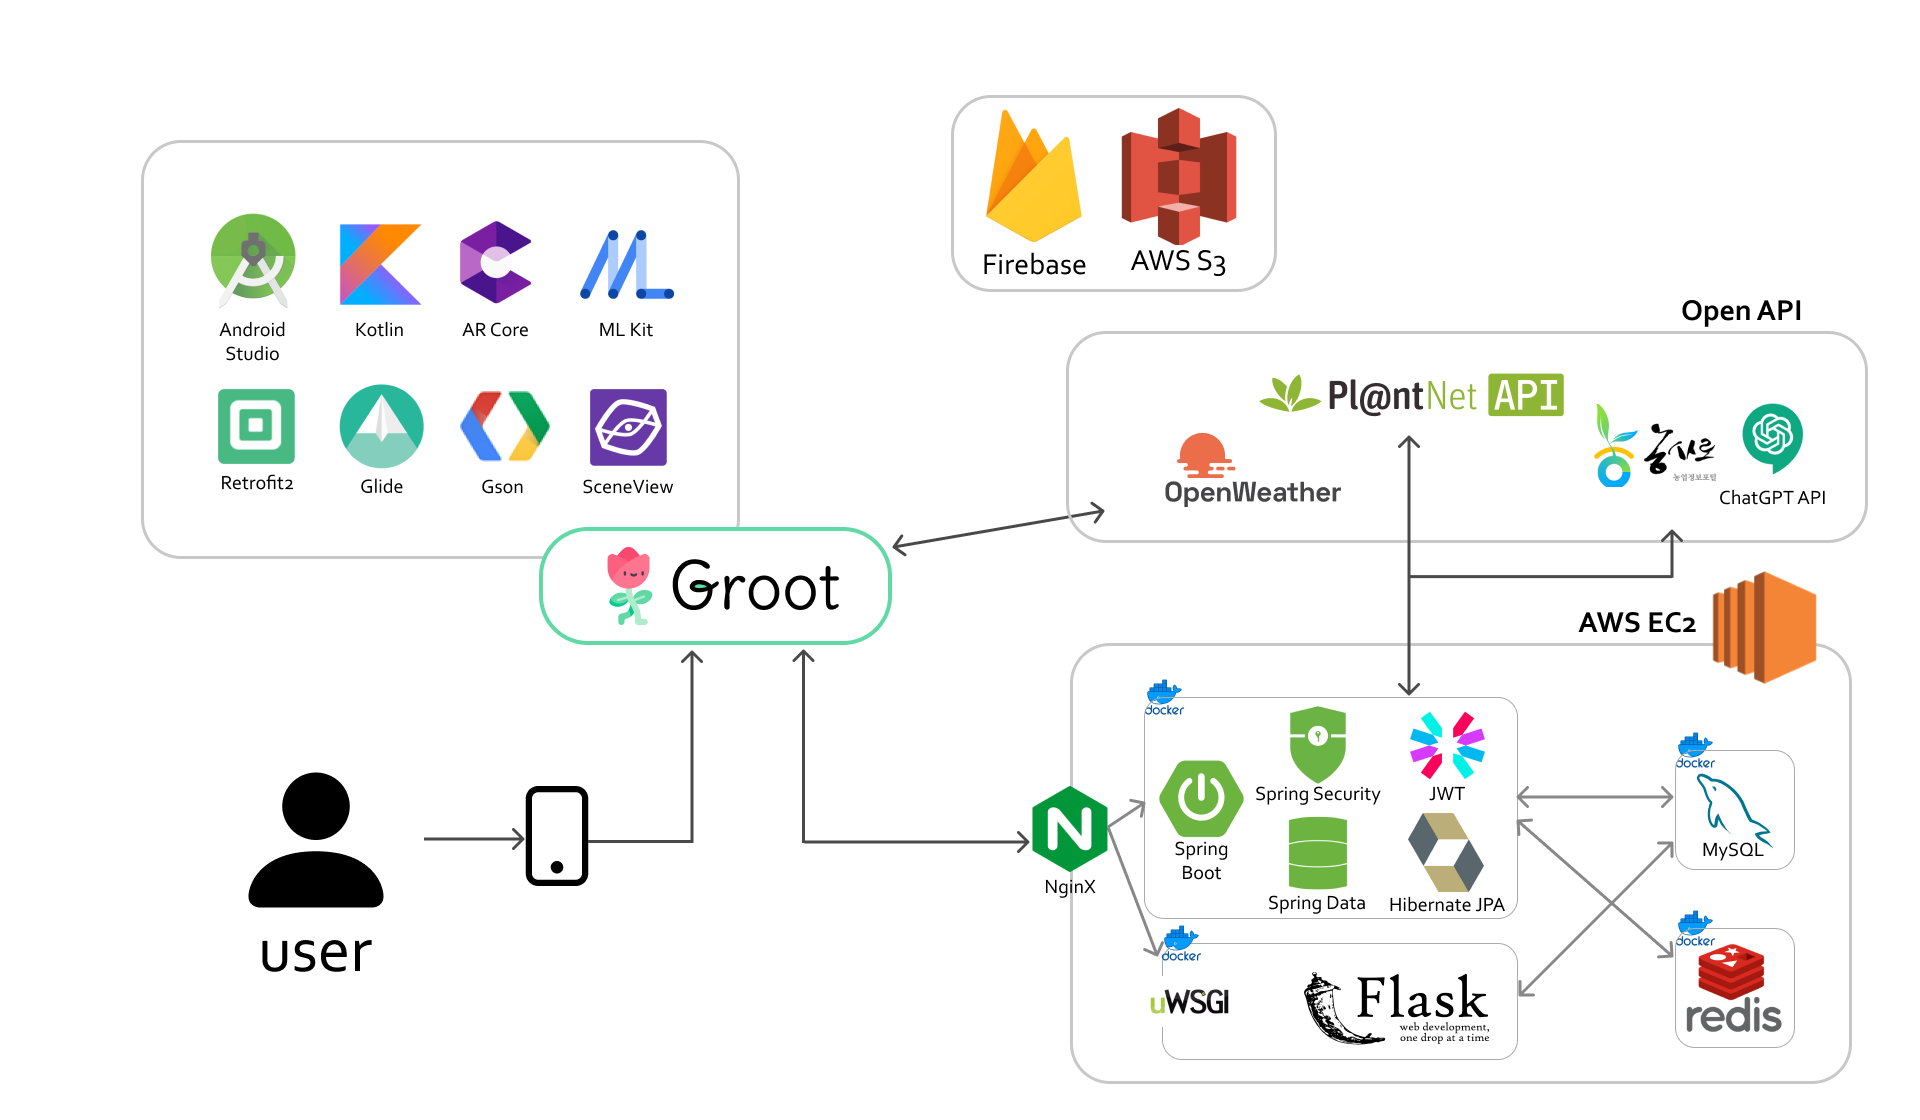
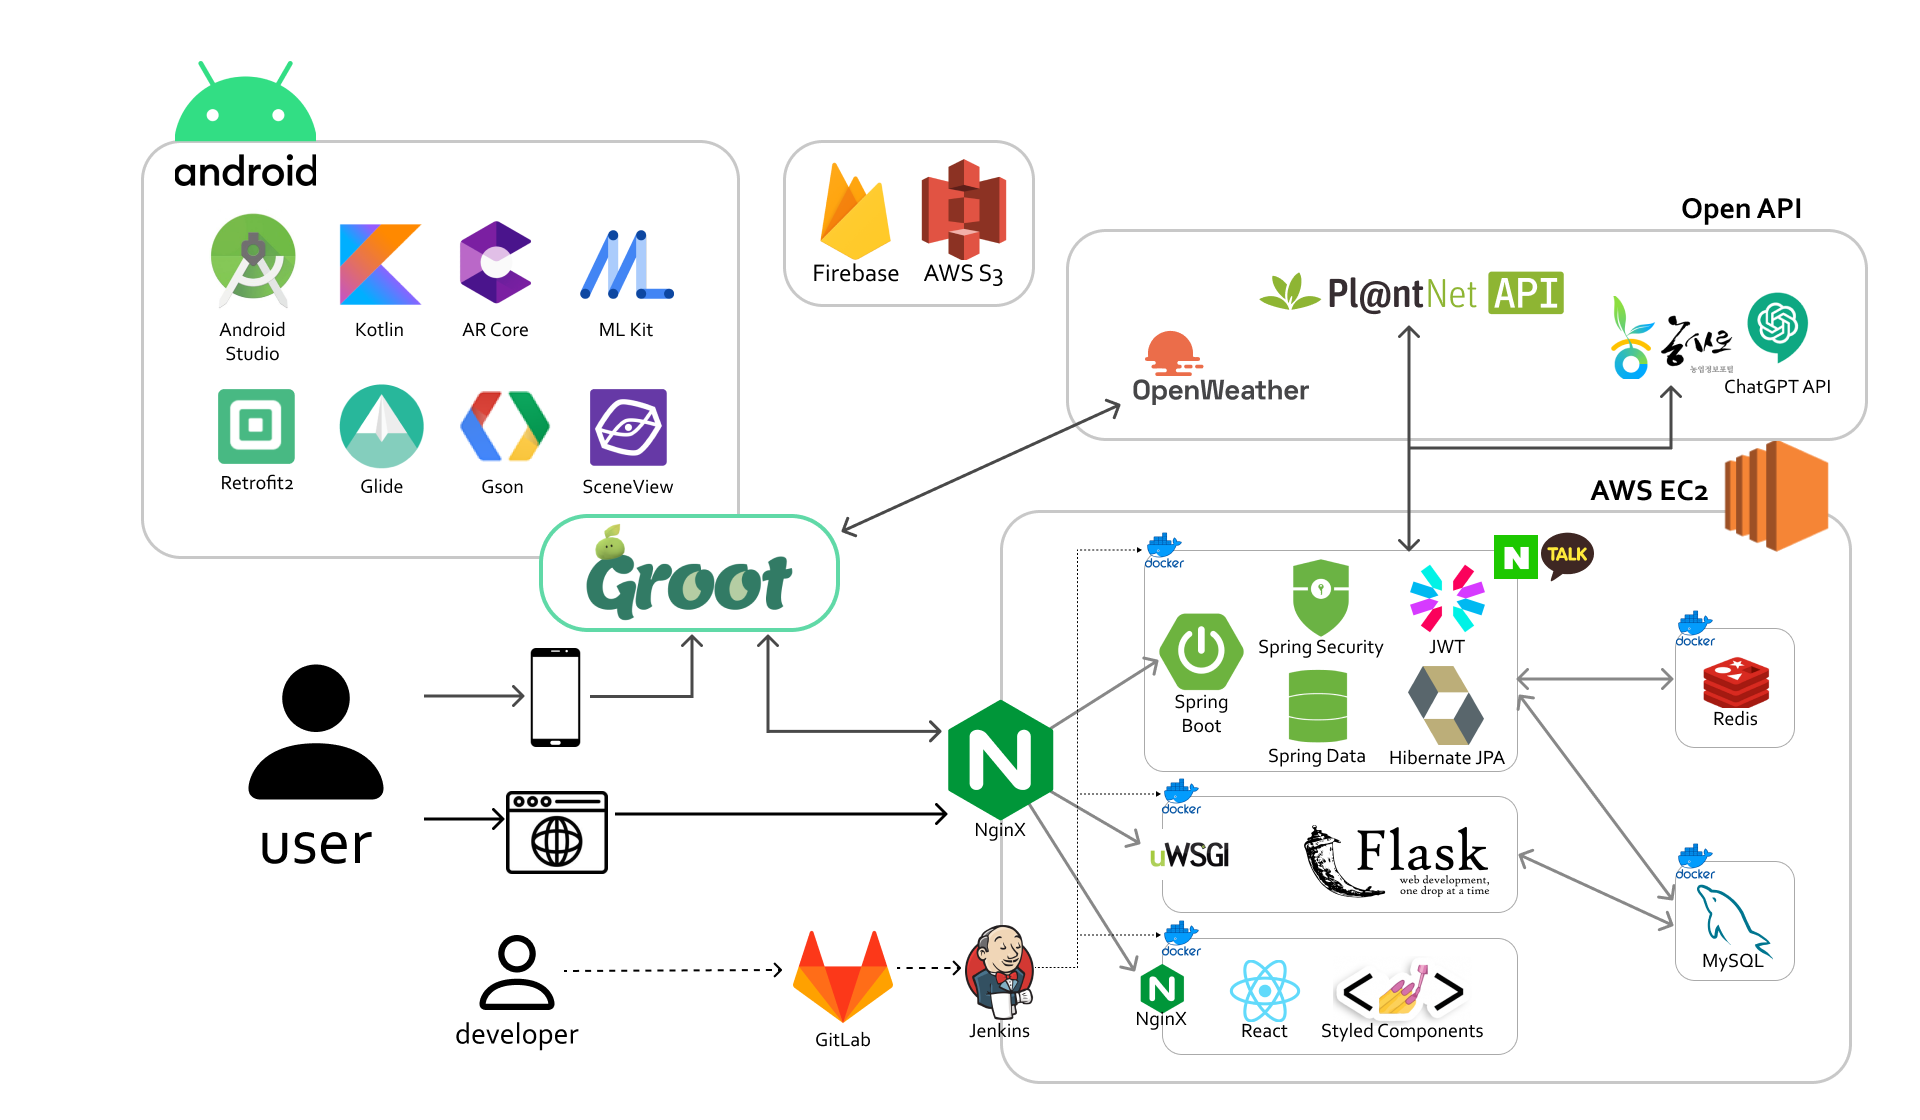
Docs: Readme v2

diff --git a/README.md b/README.md
@@ -12,25 +12,25 @@
 
 ---
 
-**[박세희](https://github.com/)** : `팀장`, `Client`
+**[박세희](https://github.com/)** : `Leader`, `Client` : 커뮤니티, 채팅 구현
 
-**[김민우](https://github.com/bkkmw)** : `BackEnd`
+**[김민우](https://github.com/bkkmw)** : `Infra`, `BackEnd` : CI/CD, 식물 데이터 전처리, 식물/화분 API
 
-**[김정원](https://github.com/)** : `Client`
+**[김정원](https://github.com/)** : `Client` : 식물 정보, Screen View, Social Login
 
-**[서다경](https://github.com/)** : `Client`
+**[서다경](https://github.com/)** : `Client` : 어플리케이션 메인 flow, 다이어리, mlkit-plant recognition
 
-**[윤민주](https://github.com/)** : `BackEnd`
+**[윤민주](https://github.com/)** : `BackEnd` : 식물 추천 기능 구현, 유저/커뮤니티 API, Microsite
 
-**[조승희](https://github.com/)** : `BackEnd`, `UCC`
+**[조승희](https://github.com/)** : `BackEnd`, `UCC` : Push 알림, 다이어리/일정 API, Microsite
 
 <br>
 
-## 프로젝트 개요
+## 📎 프로젝트 개요
 
 ---
 
-### 기획 배경
+### ⭐ 기획 배경
 
 - Home Gardening 관심 확대
   - 아파트 단지 등에서 보이는 보라색 조명의 집, 코로나19 이후 "반려식물"에 대한 관심 증가 등 **'홈 가드닝'** 에 대한 관심이 높아지고 있습니다.
@@ -48,34 +48,37 @@
 
 <br>
 
-## 주요 기능
+## 📎 주요 기능
 
 ---
 
-### 화분 등록
+### 🌱 화분 등록
 
 - 식물 식별 : 사용자가 등록하고자 하는 화분의 사진을 촬영하면 식물의 종을 식별하여 사용자의 화분으로 등록할 수 있도록 합니다.
 - 조도 분석 : 화분을 위치하고자 하는 곳의 조도를 Android 센서를 통해 분석하여 해당 식물에게 적합한 위치인지 여부 판단하여, 사용자에게 해당 화분을 놓을 적합한 위치를 찾을 수 있도록 도와줍니다.
 - 화분 등록 : 사진을 통한 식물 식별이나, 직접 검색을 통해 화분을 등록할 수 있도록 합니다.
 - 육성 가이드 : 물주기, 영양제, 햇빛, 분갈이, 해충 등 개별 식물 별 일정 및 가이드를 제공합니다. 물주기와 같은 잊어버리기 쉬운 일정은 푸쉬 알림을 통한 식물별 리마인더 및 캘린더를 통한 일정을 사용자에게 제공하며, 수행한 일정에 대한 기록을 남길 수 있습니다.
 
-### 캐릭터 육성
+### 🥚 캐릭터 육성
 
 - AR : AR 기술을 활용하여 식물과 함께 3D 캐릭터 모델을 활용한 생동감 있는 식물 캐릭터를 만날 수 있습니다.
 - 캐릭터 육성 : 물주기 등의 활동을 통해 경험치를 얻어 캐릭터를 육성하여 총 3단계로 변화하는 캐릭터를 만날 수 있습니다.
 - 33개의 캐릭터 : 생육 형태에 따라 11 종의 캐릭터로 분류되며, 성장에 따라 변화하는 총 33개의 캐릭터를 AR 기술을 통해 식물과 함께 만날 수 있습니다.
 
-### 다이어리
+  ![characters](/images/docs/characters.png)
+
+### 📝 다이어리
 
 - 가드닝 활동 체크 : 물주기, 분갈이, 영양제 투여 등의 여부를 체크하여 기록을 남길 수 있습니다.
 - 타임라인 : 보유한 모든 화분, 특정 화분에 대한 다이어리를 타임라인을 통해 한눈에 식물의 성장 기록 과정을 확인할 수 있습니다.
 
-### 플래너
+### 📆 플래너
 
+- 육성 가이드 : 식물을 기르면서 힘든 점인 물주기, 분갈이 등의 정보 및 가이드를 등록된 화분별로 제공하며, Android의 Push 알림을 통해 리마인더 기능을 제공합니다.
 - 일정 체크 : 캘린더를 통해 언제 가드닝을 하면 되는지 확인 가능합니다.
 - 일정 수행 및 다이어리 연동 : 수행한 미션을 손쉽게 체크할 수 있으며, 다이어리와 연동하여 자동으로 기록을 남길 수 있습니다.
 
-### 식물 정보
+### 📖 식물 정보
 
 - 자동 완성 : 식물 이름 검색을 위한 자동완성 기능을 제공합니다. 또한, 다양한 이름으로 알려진 식물에 대해 식물의 정확한 이름으로 바꾸어 검색하여 사용자에게 편리한 검색 기능을 제공합니다.
 - 특성 별 필터링 : 난이도, 필요한 광량, 생육 형태에 대한 필터링 검색 기능을 제공하여, 원하는 식물을 찾을 수 있습니다.
@@ -83,7 +86,7 @@
 - 추천 기능 : 사용자가 보유한 화분 정보를 통해, 식물 데이터 간 Cosine similarity를 기반으로한 CBF(Content Based Filtering)를 통해 사용자에게 유사한 식물을 추천합니다.
 - 식물 정보 : 검색한 식물에 대한 소개, 적정 환경 등을 확인할 수 있으며, 식물을 키우기 위한 TIP을 Youtube 영상을 통해 확인할 수 있습니다.
 
-### 커뮤니티
+### 💬 커뮤니티
 
 - 카테고리 별 게시글 검색 : 나눔, 자유, QnA 등 카테고리별 게시판 기능을 제공합니다.
 - 실시간 인기 태그 : 카테고리 별 인기 태그 정보를 제공합니다.
@@ -92,36 +95,37 @@
 
 <br>
 
-## 주요 기술
+## 📎 주요 기술
 
 ---
 
-### AI
+### 🌟 AI
 
 - 식물 이미지를 분석하여 식물의 종을 식별합니다.
 - 수 많은 종류의 종이 존재하며, 명명 규칙이 잘 지켜지지 않은 경우가 존재하여 상위 N개의 결과 중 동일 속에 대한 가중치를 적용하여 검색 결과를 보정합니다.
 
-### AR
+### 🌟 AR
 
 - 식물의 위치를 인식하여, 식물과 식물에 해당하는 캐릭터를 함께 보여줍니다.
 - ML Kit의 Object Detection과 Image Tracking을 통해 Object(식물)의 위치를 추적하며, SceneView를 통한 Environment Detection을 활용하여 AR 기술을 구현하였습니다.
 - Object Detection에 앞서, Computer Vision 기술과, Deep learning 기술을 활용하여 Object recognition과 classification을 통해 식물을 찾아 Point cloud를 이용하여 dection을 수행합니다.
 
-### Recommendation System
+### 🌟 Recommendation System
 
 - 사용자의 화분에 대한 데이터 기반으로, 식물 데이터를 통한 Content-Based Filtering을 활용하여 사용자에게 보유한 식물과 유사한 식물을 추천합니다.
 - 식물의 생장(생육)형태를 벡터화하여 Cosine Similarity를 계산하여 유사도가 높은 식물을 사용자에게 추천합니다.
 
-### 시스템 아키텍처
+<br>
+
+## 📎 시스템 아키텍처
+
+---
 
 ![Architecture](/images/docs/Architecture.png)
 
-### 기술 스택
-
-![tech_stack](/images/docs/tech_stack.png)
 <br>
 
-## 개발 및 협업 환경
+## 📎 개발 및 협업 환경
 
 ---
 
@@ -147,8 +151,8 @@
 <img src="https://img.shields.io/badge/ML Kit-007ACC?style=for-the-badge&logo=Android Studio&logoColor=white">
 <img src="https://img.shields.io/badge/Retrofit2-2FC774?style=for-the-badge&logo=Square&logoColor=white">
 <img src="https://img.shields.io/badge/Glide-00CCBC?style=for-the-badge&logo=Google Play&logoColor=white">
-<img src="https://img.shields.io/badge/Android_Studio-007ACC?style=for-the-badge&logo=Android Studio&logoColor=white">
 <img src="https://img.shields.io/badge/Gradle-02303A?style=for-the-badge&logo=Gradle&logoColor=white">
+<img src="https://img.shields.io/badge/Android_Studio-3DDC84?style=for-the-badge&logo=Android Studio&logoColor=white">
 <img src="https://img.shields.io/badge/Firebase-FFCA28?style=for-the-badge&logo=Firebase&logoColor=white">
 
 **Server**
@@ -159,9 +163,14 @@
 
 <img src="https://img.shields.io/badge/gitlab-FC6D26?style=for-the-badge&logo=GitLab&logoColor=white"> <img src="https://img.shields.io/badge/jira-0052CC?style=for-the-badge&logo=Jira&logoColor=white"> <img src="https://img.shields.io/badge/MatterMOST-009688?style=for-the-badge&logo=Mattermost&logoColor=white"> <img src="https://img.shields.io/badge/Notion-EF1970?style=for-the-badge&logo=Notion&logoColor=white"> <img src="https://img.shields.io/badge/Discord-FDA061?style=for-the-badge&logo=Discord&logoColor=white">
 
+**Microsite**
+
+<img src="https://img.shields.io/badge/React-61DAFB?style=for-the-badge&logo=React&logoColor=white">
+<img src="https://img.shields.io/badge/Styled_components-DB7093?style=for-the-badge&logo=StyledComponents&logoColor=white">
+
 <br>
 
-## 서비스 화면
+## 📎 서비스 화면
 
 ---
 
@@ -178,6 +187,10 @@
 ![ar_tree](/images/screen/ar_tree.gif)
 ![ar_cat](/images/screen/ar_green_cat.gif)
 
+### 플래너
+
+### 다이어리 및 캐릭터 육성
+
 ### 식물 이름 검색 및 이름 자동완성
 
 ![search_name](/images/screen/searching_name.gif)
@@ -188,30 +201,42 @@
 
 ### 식물 식별
 
-![identif_성미인](/images/screen/identif_oviferum.gif)
+![identif_oviferum](/images/screen/identif_oviferum.gif)
+
+### 커뮤니티 및 채팅
+
+![community](/images/screen/community.gif)
+
+### 리사이클러뷰를 통한 커뮤니티 무한 스크롤
+
+![scroll](/images/screen/scroll.gif)
+
+### 컬렉션북
 
 <br>
 
-## 프로젝트 산출물
+## 📎 화면 설계서
 
 ---
 
-### 와이어 프레임
-
 ![wireframe](/images/docs/wireframe.png)
 
-### ERD
+## 📎 ERD
 
 ![ERD](/images/docs/ERD.png)
 
-### API 명세서
+## 📎 API 명세서
 
 ![API_specification](/images/docs/API_specification.png)
 
-[API 명세서](https://superficial-brush-0a1.notion.site/API-1641b7cde4b34f659bcf60af60eeeb6d)
+## [API 명세서](https://superficial-brush-0a1.notion.site/API-1641b7cde4b34f659bcf60af60eeeb6d)
 
 ---
 
 # 🏡 GROOT
 
 ![play_store_QR](/images/docs/play_store_QR.png)
+
+## [OURGROOT](https://ourgroot.com)
+
+![microsite](/images/screen/microsite.gif)
